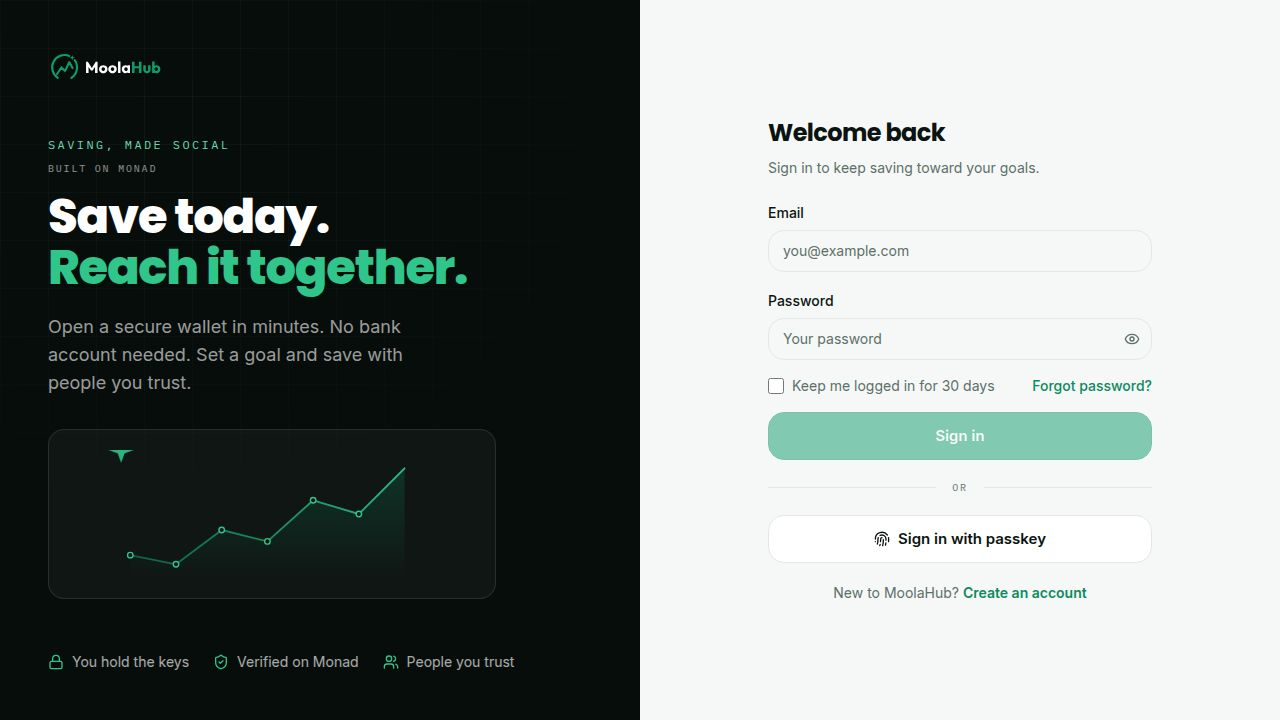
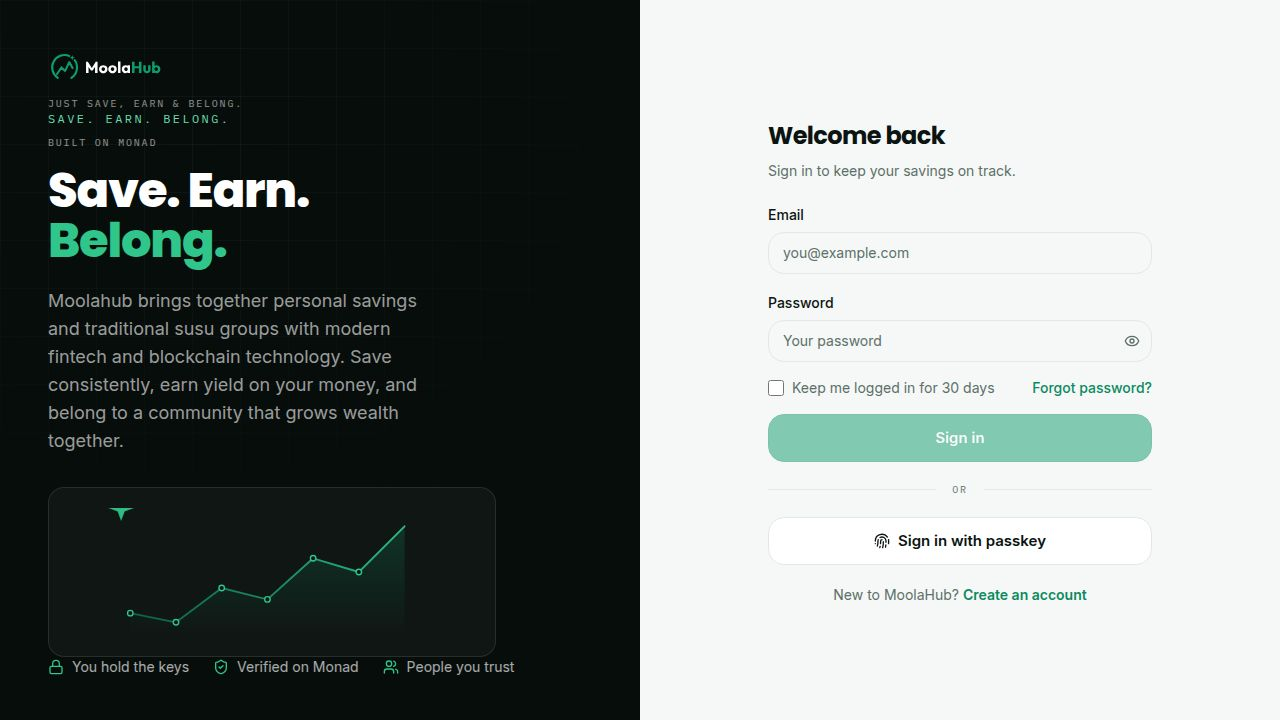
Update app tagline and social sharing preview image
Update index.html to include correct tagline, Open Graph and Twitter card metadata, and copy opengraph.jpg to public directory. Also, update memory file regarding source of truth confirmation.

Replit-Commit-Author: Agent
Replit-Commit-Session-Id: 98d3e59b-6b3f-41f9-9a56-df7ff4b83ab5
Replit-Commit-Checkpoint-Type: full_checkpoint
Replit-Commit-Event-Id: ac8ec902-aeda-4a94-b62d-7e56d9edbd86
Replit-Commit-Screenshot-Url: https://storage.googleapis.com/screenshot-production-us-central1/aa1bf7f6-a0db-4fa8-b5b1-648e50262c1b/98d3e59b-6b3f-41f9-9a56-df7ff4b83ab5/MQQjXeL
Replit-Helium-Checkpoint-Created: true

diff --git a/artifacts/moolahub-app/index.html b/artifacts/moolahub-app/index.html
@@ -4,14 +4,21 @@
     <meta charset="UTF-8" />
     <meta name="viewport" content="width=device-width, initial-scale=1.0, maximum-scale=1" />
     <title>MoolaHub — Save. Earn. Belong.</title>
-    <meta name="description" content="Save. Earn. Belong. Moolahub brings together personal savings and traditional susu groups with modern fintech and blockchain technology." />
+    <meta name="description" content="Save. Earn. Belong. MoolaHub brings together personal savings and traditional susu groups with modern fintech and blockchain technology." />
     <meta name="robots" content="index, follow" />
+    <meta property="og:site_name" content="MoolaHub" />
     <meta property="og:title" content="MoolaHub — Save. Earn. Belong." />
-    <meta property="og:description" content="Save. Earn. Belong. Moolahub brings together personal savings and traditional susu groups with modern fintech and blockchain technology." />
+    <meta property="og:description" content="Save. Earn. Belong. MoolaHub brings together personal savings and traditional susu groups with modern fintech and blockchain technology." />
     <meta property="og:type" content="website" />
+    <meta property="og:url" content="https://app.moolahub.io/" />
+    <meta property="og:image" content="https://app.moolahub.io/opengraph.jpg" />
+    <meta property="og:image:width" content="1280" />
+    <meta property="og:image:height" content="720" />
+    <meta property="og:image:alt" content="MoolaHub — Save. Earn. Belong." />
     <meta name="twitter:card" content="summary_large_image" />
     <meta name="twitter:title" content="MoolaHub — Save. Earn. Belong." />
-    <meta name="twitter:description" content="Save. Earn. Belong. Moolahub brings together personal savings and traditional susu groups with modern fintech and blockchain technology." />
+    <meta name="twitter:description" content="Save. Earn. Belong. MoolaHub brings together personal savings and traditional susu groups with modern fintech and blockchain technology." />
+    <meta name="twitter:image" content="https://app.moolahub.io/opengraph.jpg" />
     <link rel="icon" type="image/svg+xml" href="/favicon.svg?v=2" />
     <link rel="apple-touch-icon" href="/brand/moolahub_app_icon.png?v=2" />
     <link rel="preconnect" href="https://fonts.googleapis.com">

diff --git a/.agents/memory/moolahub-onchain-settlement.md b/.agents/memory/moolahub-onchain-settlement.md
@@ -97,3 +97,18 @@ the route returns 503 and exposes nothing. The user explicitly declined to
 provision the token secret (considers a shared bearer token a security risk), so
 do NOT auto-create/request it — leave enabling it to the operator. Do not weaken
 the gate to plain `requireAuth` (that would leak operator data to every user).
+
+## Source of truth: on-chain and ledger are co-authoritative (user-confirmed)
+The user chose the "let them work together" model over making either side the sole
+truth. On-chain is authoritative for VALUE and settlement FINALITY (a confirmed
+`Transfer`/`RoundSettled` is what happened to the money; the ledger converges to it,
+never overrides it). The ledger is authoritative for INTENT/MEANING and everything
+not-yet/never on-chain (membership, payout order, fees, streaks, pending + off-chain
+balances). The reconciler is the referee that drives `pending` ledger claims to a
+terminal state matching chain reality.
+**Why:** the chain is trust-minimized / verifiable / DR-safe but partial and slow
+(RPC lag); the ledger is complete / fast / expresses intent but mutable. Neither
+alone can run the product.
+**How to apply:** never let a chain-vs-ledger divergence resolve silently — surface
+it (alert/log), book failures as `pending` (not `none`), and do not add code paths
+that silently prefer one side. This is a confirmed decision; stay consistent with it.